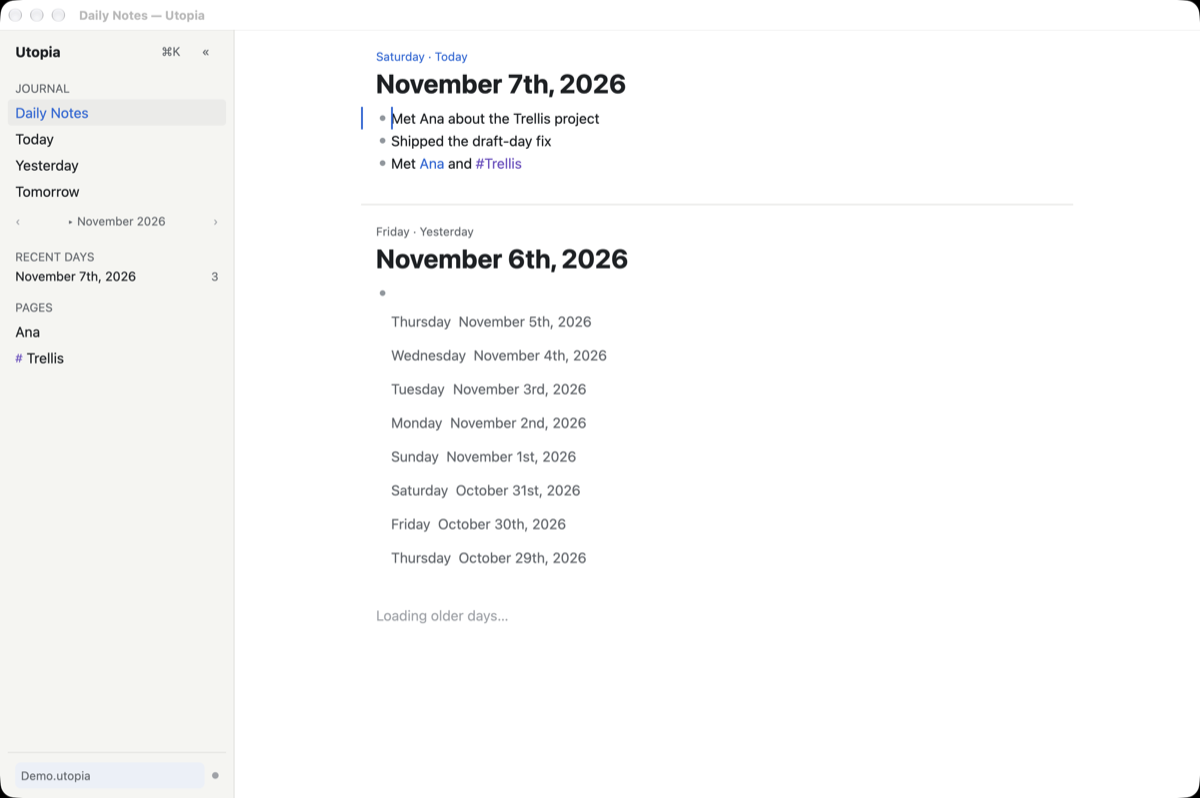
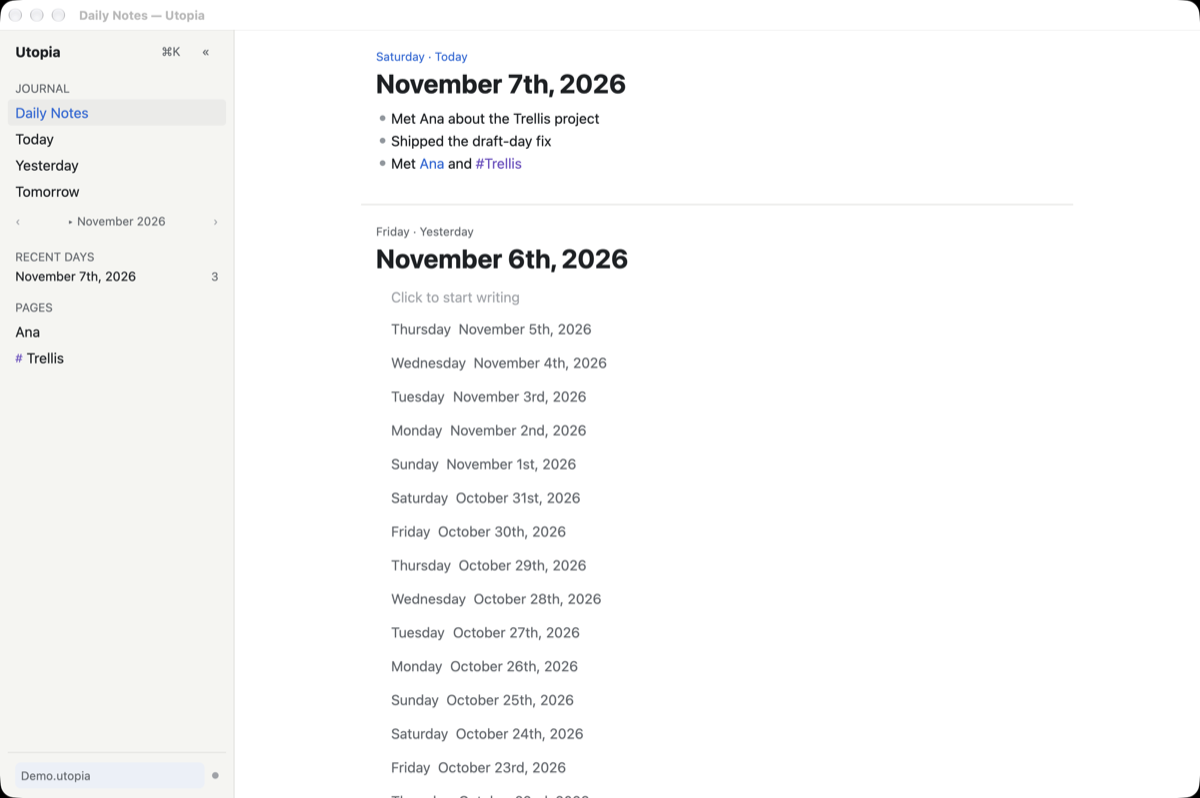
Record the merged-promotion redirect and the visit fixes

Changed region(s): [[0.3083, 0.3609, 0.5242, 0.8421], [0.3083, 0.8722, 0.4933, 1.0], [0.3083, 0.9925, 0.3392, 1.0]]

diff --git a/docs/state-machines/draft-daily-page.md b/docs/state-machines/draft-daily-page.md
@@ -20,34 +20,58 @@ fixed (each fix has a failing-first test; see the commit list).
 - **The write guard the sketch asked for** is `resolve_promotion` in
   `crates/utopia-store/src/pages.rs`: before a promoted draft is committed, the index is asked
   whether another page already owns its date (a remote copy under a fresh id, rule 4). If so
-  the draft's blocks are merged into that page (§8.6) and the draft's shard is written with the
-  merge tombstone, instead of inserting a second live daily row.
+  the draft's blocks move into that page (`plan_block_moves`, the same ids, so an open editor
+  keeps its block) and the draft's shard is **dropped**, not written: a draft was never
+  durable, and a `merged_into` tombstone for its id would let `reconcile_merged` drag the
+  *still trashed* blocks of that id (the remote deleted it, rule 4) into the live day on every
+  device (rule 5).
+- **The discarded id stays a session alias.** `Store::redirect(&PageId)` maps it to the
+  survivor; `load_doc`/`execute_multi` follow it (reads and writes keep working), `AppState`
+  resolves it in `changed()` and emits `PageReplaced { from, to }`, and `BlockEditor` and
+  `PageView` retarget themselves. `import_batch` drops the alias when a shard for the old id
+  arrives, because the id is a page of its own again and identity logic must not act on the
+  day instead. Undo steps are pointed at the survivor too (`execute_multi`), so undo commits.
 
 Issues, as numbered below:
 
 1. **Fixed** — a failed command group drops the draft *and* its shard (`Store::drop_shard`), so
    the day is simply unwritten again; `is_draft`, `page_state` and `draft_append_block` agree.
 2. **Fixed** — `sync_index` clears `docs`/`pending` on a writer failure but no longer `drafts`:
-   a draft has no durable state to reload, so the day the view is showing survives.
+   a draft has no durable state to reload, so the day the view is showing survives. This is
+   about a *draft's* survival: a promotion job that itself fails still takes the typed text
+   with it, because `sync_index` drops the promoted (no longer draft) shard — see the scope
+   note below.
 3. **Fixed** — `resolve_promotion` merges instead of colliding (`page_daily_uq`); the typed
-   text lands on the date's page. The draft's id becomes a tombstoned page with `merged_into`,
-   so a later create for the date finds the survivor. Visible change: the draft page a view
-   held can now become a merged page; the day keeps the remote page's id.
+   text lands on the date's page and the draft's id is never written. Visible change: a view
+   or the editor holding the draft's id is retargeted to the page that owns the day.
 4. **Fixed** — `id_taken` counts a shard only once it is queued or written (`claims_id`), and
    `create_page`/`ensure_daily_page` build the shard before inserting it (`install_new_page`),
-   so the leak cannot happen either.
+   so the leak cannot happen either. The test (`fr_1_2_unwritten_shard_does_not_claim_its_id`)
+   is a regression pin: it builds the pre-fix leak shape directly instead of making
+   `SetPageMeta` fail, which it cannot be made to do through the public API.
 5. **Fixed** — `start_note` reports whether it wrote (`StartedNote`) and `start_day` (and the
    same pattern in `focus_first`) only calls `AppState::changed` with `structural = true` for a
-   real write; clicking to start a draft no longer forces a flush and an `IndexUpdated` cycle.
+   real write; the three other visit paths (`open_journal`, `open_date`, `pick_date`) pass
+   `false` because a visit never writes. No path forces a flush for a visit any more.
 
-Nothing listed here is left open. Not covered (other machines): the writer's own failure
-bookkeeping (`store-commit-pipeline.md`) and the editor's caret when a draft it holds is
-replaced by a merged page.
+Nothing listed here is left open. **Not covered here** (other machines):
+
+- a writer failure of the promotion job itself still loses the just-typed text, because
+  `sync_index` drops the promoted shard and the text was never on disk. That is
+  `store-commit-pipeline.md`'s repair path (the fix re-queues failed shards instead of
+  dropping them), not this machine's; issue 2 above only keeps *un-promoted* drafts, which by
+  construction hold no user text.
+- what the editor/view should do for a page merged away by another mechanism (rename, §8.6);
+  this machine only redirects the ids it discarded itself.
 
 Tests: `crates/utopia-store/tests/acceptance.rs` (`fr_1_2_failed_command_leaves_no_ghost_draft`,
-`fr_1_2_writer_failure_keeps_the_draft`, `fr_1_2_promoted_draft_merges_into_the_days_page`),
-`crates/utopia-store/src/pages.rs` (`fr_1_2_unwritten_shard_does_not_claim_its_id`) and
-`crates/utopia-ui/tests/workspace.rs` (`fr_1_2_starting_a_draft_does_not_flush_the_index`).
+`fr_1_2_writer_failure_keeps_the_draft`, `fr_1_2_promoted_draft_merges_into_the_days_page`,
+`fr_1_2_promoted_draft_does_not_resurrect_a_deleted_page`,
+`fr_1_2_typing_after_a_merged_promotion_reaches_the_day`,
+`fr_1_2_undo_after_a_merged_promotion_reaches_the_day`), `crates/utopia-store/src/pages.rs`
+(`fr_1_2_unwritten_shard_does_not_claim_its_id`) and `crates/utopia-ui/tests/workspace.rs`
+(`fr_1_2_starting_a_draft_does_not_flush_the_index`,
+`fr_1_2_typing_survives_a_merged_promotion`, `fr_1_2_visiting_a_day_does_not_flush_the_index`).
 Screenshots: `docs/verification/draft-daily-page/` — `feed.png` (the feed with mock data;
 the day to click is folded), `day-started.png` (after clicking it: the day opened with the
 caret in its empty block, RECENT DAYS unchanged, so the click wrote nothing) and
@@ -112,7 +136,8 @@ Readers: `is_draft` at `page_view.rs:945, 3819`; `draft_daily` at `page_view.rs:
 2. **`sync_index` error clears `drafts` but the view keeps the id** (`lib.rs:336-338` vs
    `page_view.rs:240/945`). Same `NotFound` outcome; the draft's typed text was already
    promoted on the first keystroke, so only the empty block/template is lost (rule 5 holds
-   for characters, not for the day's existence).
+   for characters, not for the day's existence) — unless the *promotion job itself* fails,
+   which the Status section lists as the pipeline's problem.
 3. **Promoted draft can collide with a live page under a different id.** `dedupe_collisions`
    (`pages.rs:657-695`) runs only for imported pages present in the index; a draft has no
    row. If sync imports date D under a fresh ULID (the uuidv5 was tombstoned remotely, rule
@@ -141,15 +166,18 @@ stateDiagram-v2
     Draft --> Draft : draft_append_block (memory only)
     Draft --> Live : promote_draft (first keystroke -> queue -> flush, whole page, one job)
     Draft --> Live : ensure_daily_page (a link to the date)
-    Draft --> Live : promote_draft + resolve_promotion [another page owns the date -> §8.6 merge]
+    Draft --> Live : promote_draft + resolve_promotion [another page owns the date]
     Draft --> NoPage : command group fails (drop_shard, nothing was written)
     Draft --> NoPage : import_batch brings a remote shard for that draft id
     Live --> Tombstoned : delete
     Tombstoned --> Draft : draft_daily (fresh ULID)
 ```
 
-The old `Ghost` states are gone: a draft cannot exist without its shard (`DraftDay` owns it),
-and a writer failure no longer clears drafts (they have no durable state to disagree with).
+`resolve_promotion` moves the draft's blocks into the page that owns the date; the draft's id
+is dropped and kept only as a session alias (`Store::redirect`) that views and the editor
+follow. The old `Ghost` states are gone: a draft cannot exist without its shard (`DraftDay`
+owns it), and a writer failure no longer clears drafts (they have no durable state to disagree
+with).
 
 ## Would an explicit state type help?
 
